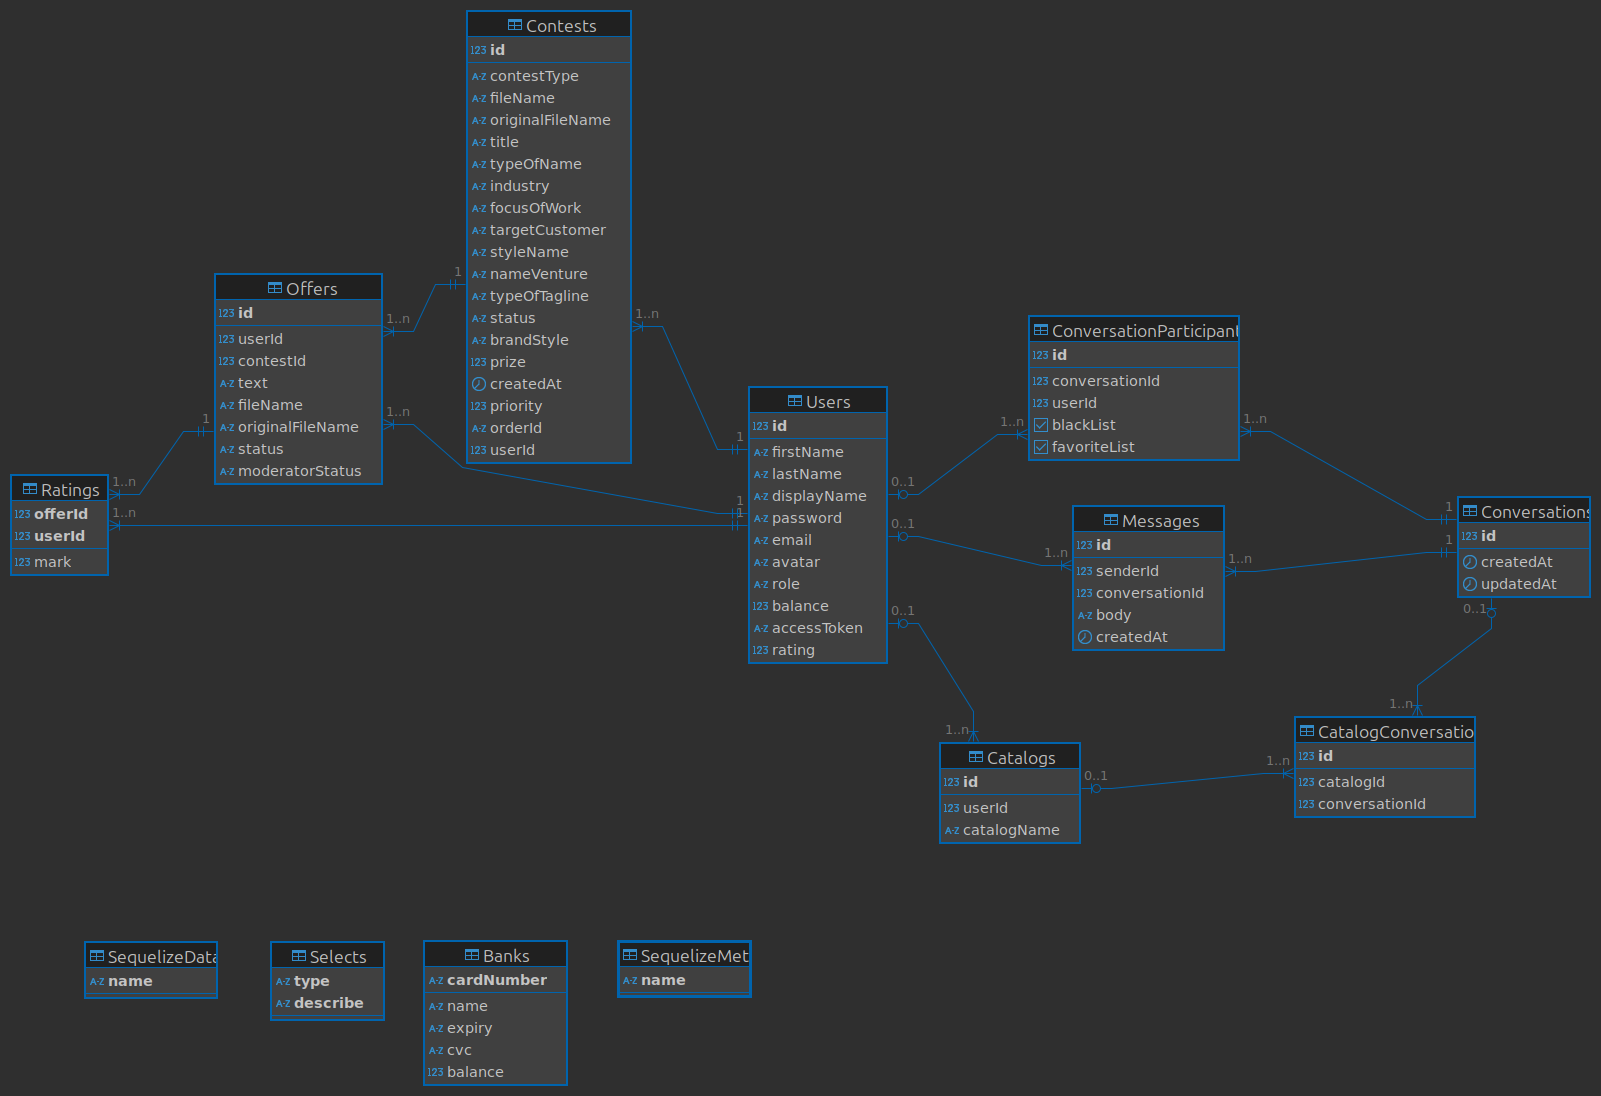
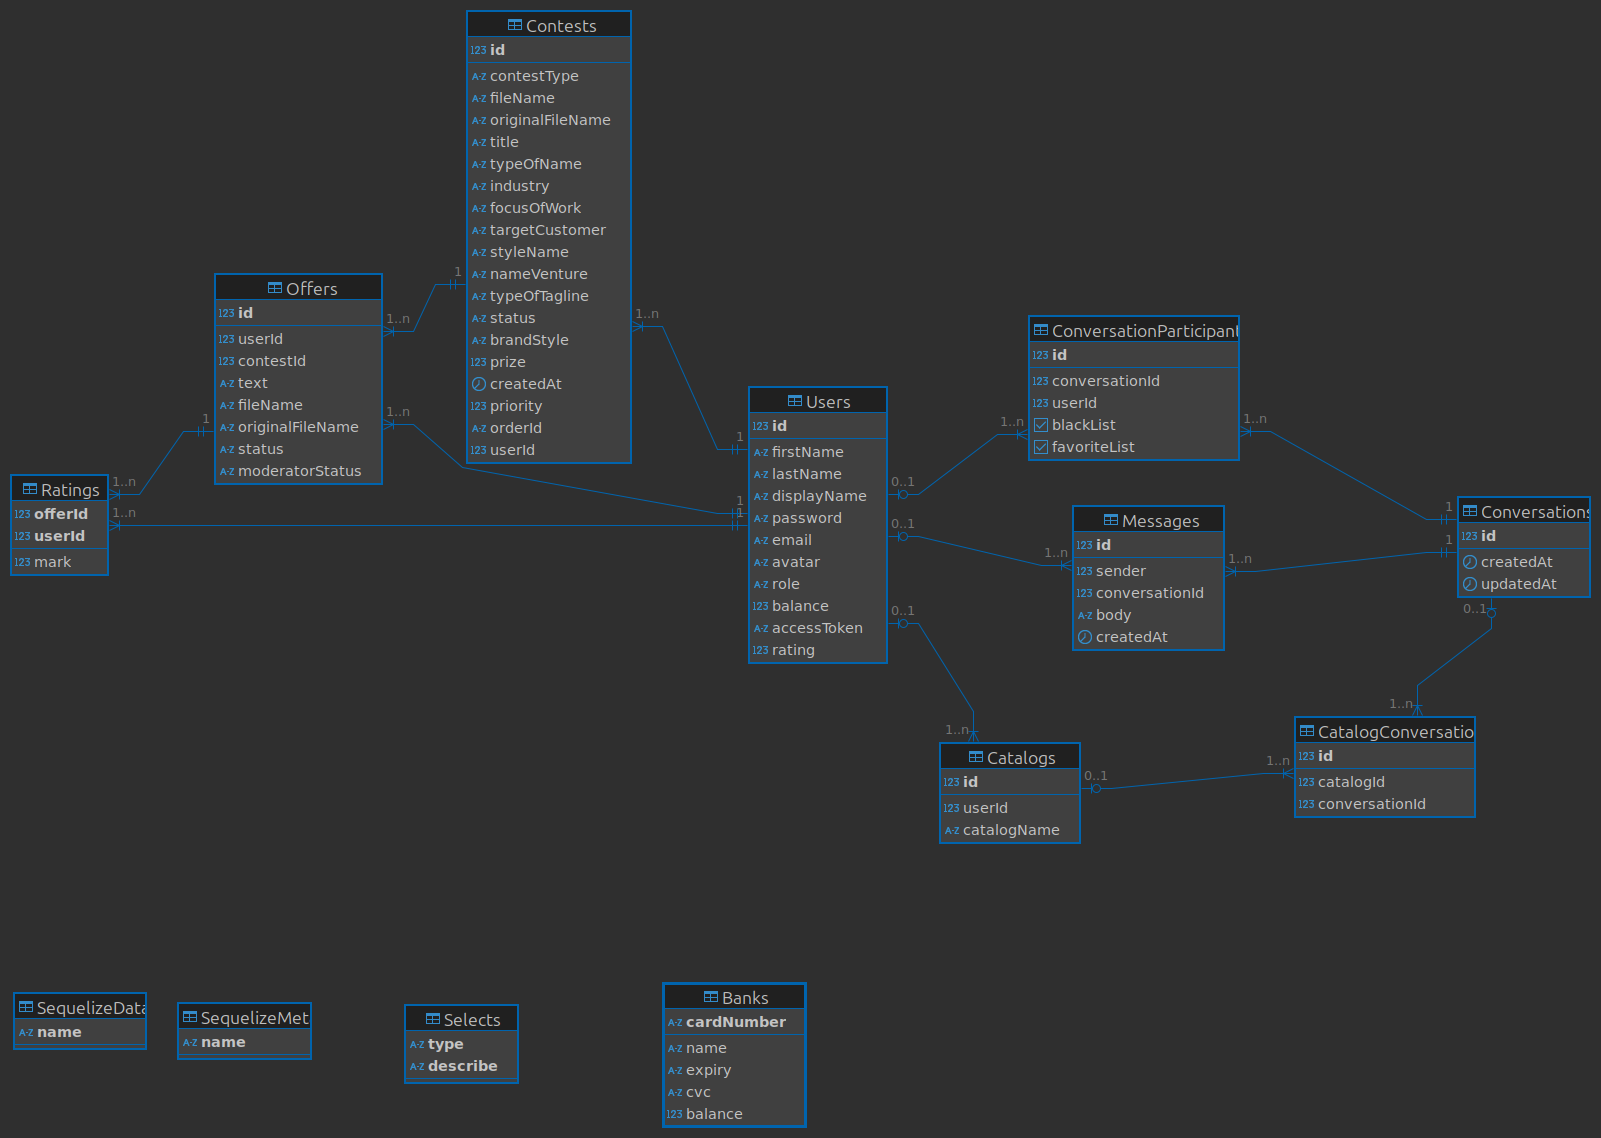
Rename senderId

diff --git a/server/src/controllers/chatControllersql.js b/server/src/controllers/chatControllersql.js
@@ -60,13 +60,7 @@ module.exports.getChat = async (req, res, next) => {
     }
 
     const messages = await Messages.findAll({
-      attributes: [
-        'id',
-        ['senderId', 'sender'],
-        'body',
-        'conversationId',
-        'createdAt',
-      ],
+      attributes: ['id', 'sender', 'body', 'conversationId', 'createdAt'],
       where: {
         conversationId: conversation.id,
       },
@@ -90,11 +84,11 @@ module.exports.getChat = async (req, res, next) => {
 
 module.exports.addMessage = async (req, res, next) => {
   const {
-    tokenData: { userId: senderId },
+    tokenData: { userId: sender },
     body: { recipient: recipientId },
   } = req;
 
-  const participants = [senderId, recipientId].sort((a, b) => a - b);
+  const participants = [sender, recipientId].sort((a, b) => a - b);
 
   try {
     let conversation = await Conversations.findOne({
@@ -127,16 +121,16 @@ module.exports.addMessage = async (req, res, next) => {
     }
 
     const message = await Messages.create({
-      senderId: senderId,
+      sender,
       body: req.body.messageBody,
       conversationId: conversation.id,
     });
 
-    const interlocutorId = participants.find(id => id !== senderId);
+    const interlocutorId = participants.find(id => id !== sender);
 
     const preview = {
       _id: conversation.id,
-      sender: senderId,
+      sender,
       text: req.body.messageBody,
       createAt: message.createdAt,
       participants: participants,
@@ -147,7 +141,7 @@ module.exports.addMessage = async (req, res, next) => {
     controller.getChatController().emitNewMessage(interlocutorId, {
       message: {
         _id: message.id,
-        sender: senderId,
+        sender,
         body: req.body.messageBody,
         conversation: conversation.id,
         createdAt: message.createdAt,
@@ -155,7 +149,7 @@ module.exports.addMessage = async (req, res, next) => {
       preview: {
         ...preview,
         interlocutor: {
-          id: senderId,
+          id: sender,
           firstName: req.tokenData.firstName,
           lastName: req.tokenData.lastName,
           displayName: req.tokenData.displayName,
@@ -168,7 +162,7 @@ module.exports.addMessage = async (req, res, next) => {
     res.send({
       message: {
         _id: message.id,
-        sender: senderId,
+        sender,
         body: req.body.messageBody,
         conversation: conversation.id,
         createdAt: message.createdAt,
@@ -192,7 +186,7 @@ module.exports.getPreview = async (req, res, next) => {
     const conversations = await Conversations.findAll({
       attributes: [
         'id',
-        [Sequelize.literal('MAX("Messages"."senderId")'), 'sender'],
+        [Sequelize.literal('MAX("Messages"."sender")'), 'sender'],
         [
           Sequelize.literal(`
 					(SELECT "body" FROM "Messages"

diff --git a/server/src/models/Message.js b/server/src/models/Message.js
@@ -8,7 +8,7 @@ module.exports = (sequelize, DataTypes) => {
         allowNull: false,
         primaryKey: true,
       },
-      senderId: {
+      sender: {
         type: DataTypes.INTEGER,
         allowNull: true,
       },
@@ -38,7 +38,7 @@ module.exports = (sequelize, DataTypes) => {
       onDelete: 'CASCADE',
     });
     Message.belongsTo(models.Users, {
-      foreignKey: 'senderId',
+      foreignKey: 'sender',
       onUpdate: 'CASCADE',
       onDelete: 'SET NULL',
     });

diff --git a/server/src/models/User.js b/server/src/models/User.js
@@ -70,7 +70,7 @@ module.exports = (sequelize, DataTypes) => {
     User.hasMany(models.Contests, { foreignKey: 'userId' });
     User.hasMany(models.Ratings, { foreignKey: 'userId' });
     User.hasMany(models.ConversationParticipants, { foreignKey: 'userId' });
-    User.hasMany(models.Messages, { foreignKey: 'senderId' });
+    User.hasMany(models.Messages, { foreignKey: 'sender' });
     User.hasMany(models.Catalogs, { foreignKey: 'userId' });
   };
 
